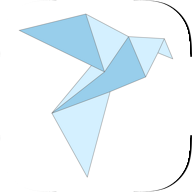
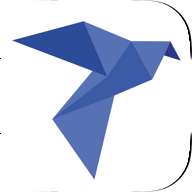
Loading animation

Changed region(s): [[0.0625, 0.0625, 0.9375, 0.9375], [0.9688, 0.6875, 1.0, 0.7188], [0.9688, 0.2812, 1.0, 0.3125]]

diff --git a/style/style.css b/style/style.css
@@ -29,10 +29,52 @@ body{
     margin-top: 0px !important;
 }
 
+#loading{
+    position: fixed;
+    z-index: 10;
+    width: 100%;
+    height: 100%;
+    background-color: #e3e3e3;
+}
+.center {
+    margin: auto;
+}
+
+#loading img{
+    position: absolute;
+    width: 60%;
+    left: 20%;
+    top: 10%;
+}
+
 .act{
     position: relative;
     min-height: 7em;
 }
+
+.loader {
+    border: 8px solid #f3f3f3;
+    border-radius: 50%;
+    border-top: 8px solid var(--main-color);
+    width: 60px;
+    height: 60px;
+    -webkit-animation: spin 2s linear infinite; /* Safari */
+    animation: spin 2s linear infinite;
+    position: absolute;
+    top: 55%;
+    left: 40%;
+  }
+  
+  /* Safari */
+  @-webkit-keyframes spin {
+    0% { -webkit-transform: rotate(0deg); }
+    100% { -webkit-transform: rotate(360deg); }
+  }
+  
+  @keyframes spin {
+    0% { transform: rotate(0deg); }
+    100% { transform: rotate(360deg); }
+  }
 
 
 div.calendarDate {

diff --git a/index.html b/index.html
@@ -26,8 +26,15 @@
   <link rel="stylesheet" href="https://unpkg.com/onsenui/css/onsen-css-components.min.css">
   <script src="https://unpkg.com/onsenui/js/onsenui.min.js"></script>
   <script src="https://code.jquery.com/jquery-3.5.0.js"></script>
+  <script src="js/scripts.js"></script>
 </head>
 <body>
+
+<!-- Loading Animation -->
+<div class="center" id="loading">
+  <img src="images/bird.png">
+  <div class="loader center"></div>
+</div>
   
 <ons-page>
     <ons-toolbar>

diff --git a/js/scripts.js b/js/scripts.js
@@ -1,0 +1,7 @@
+$( document ).ready(function( event ) {
+    $('#loading').show();
+   setTimeout(function() { 
+       $('#loading').fadeOut(); 
+   }, 4000);
+});
+

diff --git a/phpscripts/connection.php b/phpscripts/connection.php
@@ -10,12 +10,27 @@
     
     public function __construct()
     {
-    
-        //Produktiv
-        $this->dbhost = 'localhost:3306';
-        $this->dbname = 'revive'; //Ersetzten durch Datenbank name
-        $this->dbuser = 'revive_user';
-        $this->dbpass = 'kRdk^959';
+        $url = $_SERVER['HTTP_HOST'];
+        
+       
+
+        if($url == 'localhost')
+        {
+            //Integration
+            $this->dbhost = 'localhost';
+            $this->dbname = 'revive'; //Ersetzten durch Datenbank name
+            $this->dbuser = 'root';
+            $this->dbpass = '';
+        }
+        else
+        {
+            //Produktiv
+            $this->dbhost = 'localhost:3306';
+            $this->dbname = 'revive'; //Ersetzten durch Datenbank name
+            $this->dbuser = 'revive_db';
+            $this->dbpass = 'kRdk^959';
+        }
+        
         
         try 
         {
